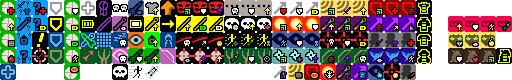
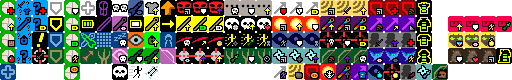
added 4th blades talent

Changed region(s): [[0.8125, 0.8, 0.875, 1.0]]

diff --git a/core/src/main/java/com/zrp200/rkpd2/actors/hero/abilities/huntress/SpectralBlades.java b/core/src/main/java/com/zrp200/rkpd2/actors/hero/abilities/huntress/SpectralBlades.java
@@ -28,12 +28,17 @@ import com.zrp200.rkpd2.actors.Actor;
 import com.zrp200.rkpd2.actors.Char;
 import com.zrp200.rkpd2.actors.buffs.Buff;
 import com.zrp200.rkpd2.actors.buffs.Invisibility;
+import com.zrp200.rkpd2.actors.buffs.SnipersMark;
 import com.zrp200.rkpd2.actors.hero.Hero;
+import com.zrp200.rkpd2.actors.hero.HeroSubClass;
 import com.zrp200.rkpd2.actors.hero.Talent;
 import com.zrp200.rkpd2.actors.hero.abilities.ArmorAbility;
 import com.zrp200.rkpd2.actors.mobs.npcs.NPC;
 import com.zrp200.rkpd2.items.Item;
 import com.zrp200.rkpd2.items.armor.ClassArmor;
+import com.zrp200.rkpd2.items.rings.RingOfSharpshooting;
+import com.zrp200.rkpd2.items.weapon.SpiritBow;
+import com.zrp200.rkpd2.items.weapon.melee.MeleeWeapon;
 import com.zrp200.rkpd2.items.weapon.missiles.Shuriken;
 import com.zrp200.rkpd2.mechanics.Ballistica;
 import com.zrp200.rkpd2.mechanics.ConeAOE;
@@ -120,7 +125,49 @@ public class SpectralBlades extends ArmorAbility {
 					if (hero.hasTalent(Talent.SPIRIT_BLADES)){
 						Buff.affect(hero, Talent.SpiritBladesTracker.class, 0f);
 					}
-					hero.attack( ch, dmgMulti, 0, accmulti );
+					int dmgBonus = 0;
+					if (hero.belongings.weapon instanceof MeleeWeapon &&
+							hero.pointsInTalent(Talent.SPECTRAL_SHOT) > 2){
+						dmgBonus = Random.NormalIntRange(
+								((MeleeWeapon) hero.belongings.weapon).min(RingOfSharpshooting.levelDamageBonus(hero)),
+								((MeleeWeapon) hero.belongings.weapon).max(RingOfSharpshooting.levelDamageBonus(hero))
+						);
+					}
+					hero.attack( ch, dmgMulti, dmgBonus, accmulti );
+					if (hero.hasTalent(Talent.SPECTRAL_SHOT)) {
+						if (hero.subClass == HeroSubClass.SNIPER) {
+							Actor.add(new Actor() {
+
+								{
+									actPriority = VFX_PRIO;
+								}
+
+								@Override
+								protected boolean act() {
+									if (enemy.isAlive() || hero.hasTalent(Talent.MULTISHOT)) {
+										int level = 0;
+										SnipersMark mark = Buff.affect(hero, SnipersMark.class);
+										mark.set(enemy.id(), level);
+										if (!enemy.isAlive()) mark.remove(enemy.id()); // this lets it trigger ranger
+									}
+									Actor.remove(this);
+									return true;
+								}
+							});
+						}
+						if (hero.pointsInTalent(Talent.SPECTRAL_SHOT) > 1){
+							SpiritBow bow = Dungeon.hero.belongings.getItem(SpiritBow.class);
+							if (bow == null && Dungeon.hero.belongings.weapon instanceof SpiritBow){
+								bow = (SpiritBow) Dungeon.hero.belongings.weapon;
+							}
+							if (bow != null && hero.subClass == HeroSubClass.SNIPER){
+								SpiritBow.SpiritArrow spiritArrow = bow.knockArrow();
+								if (hero.pointsInTalent(Talent.SPECTRAL_SHOT) > 3) spiritArrow.sniperSpecial = true;
+								spiritArrow.cast(hero, ch.pos);
+//								hero.spend(-hero.cooldown());
+							}
+						}
+					}
 					callbacks.remove( this );
 					if (callbacks.isEmpty()) {
 						Invisibility.dispel();
@@ -165,6 +212,6 @@ public class SpectralBlades extends ArmorAbility {
 
 	@Override
 	public Talent[] talents() {
-		return new Talent[]{Talent.FAN_OF_BLADES, Talent.PROJECTING_BLADES, Talent.SPIRIT_BLADES, Talent.HEROIC_ENERGY};
+		return new Talent[]{Talent.FAN_OF_BLADES, Talent.PROJECTING_BLADES, Talent.SPIRIT_BLADES, Talent.SPECTRAL_SHOT, Talent.HEROIC_ENERGY};
 	}
 }

diff --git a/core/src/main/java/com/zrp200/rkpd2/actors/hero/Talent.java b/core/src/main/java/com/zrp200/rkpd2/actors/hero/Talent.java
@@ -135,9 +135,9 @@ public enum Talent {
 	//Warden T3
 	DURABLE_TIPS(110, 3), BARKSKIN(111, 3), SHIELDING_DEW(112, 3), NATURES_BETTER_AID(102,3),
 	//Spectral Blades T4
-	FAN_OF_BLADES(113, 4), PROJECTING_BLADES(114, 4), SPIRIT_BLADES(115, 4),
+	FAN_OF_BLADES(113, 4), PROJECTING_BLADES(114, 4), SPIRIT_BLADES(115, 4), SPECTRAL_SHOT(154, 4),
 	//Natures Power T4
-	GROWING_POWER(116, 4), NATURES_WRATH(117, 4), WILD_MOMENTUM(118, 4),
+	GROWING_POWER(116, 4), NATURES_WRATH(117, 4), WILD_MOMENTUM(118, 4), PRIMAL_AWAKENING(155, 4),
 	//Spirit Hawk T4
 	EAGLE_EYE(119, 4), GO_FOR_THE_EYES(120, 4), SWIFT_SPIRIT(121, 4),
 	//universal T4
